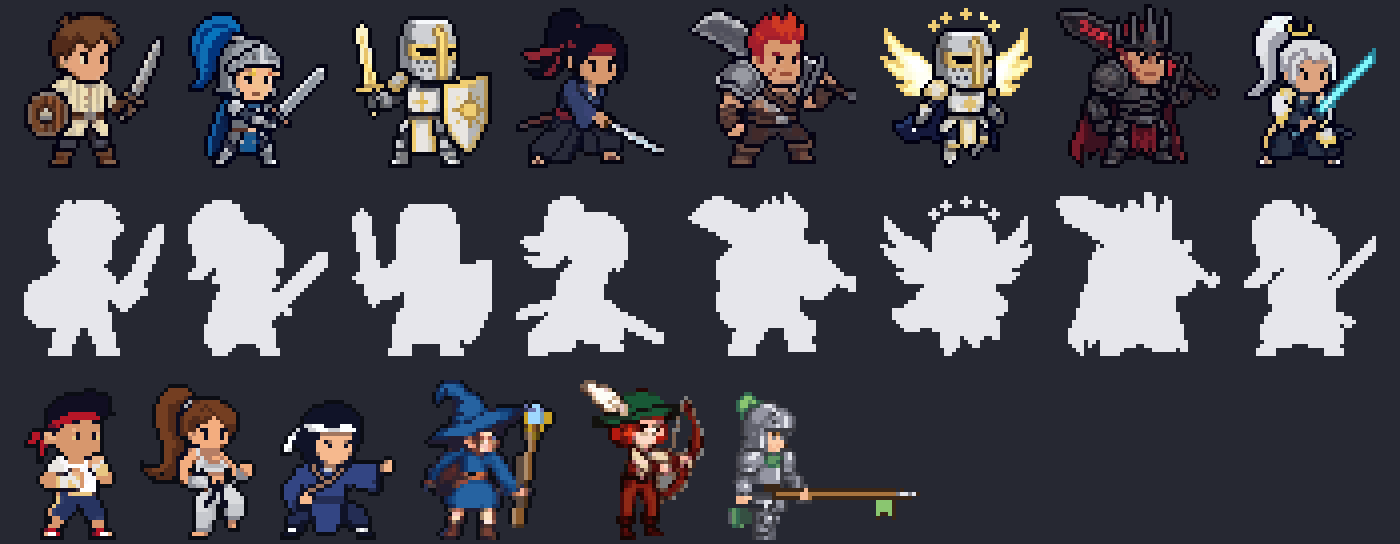
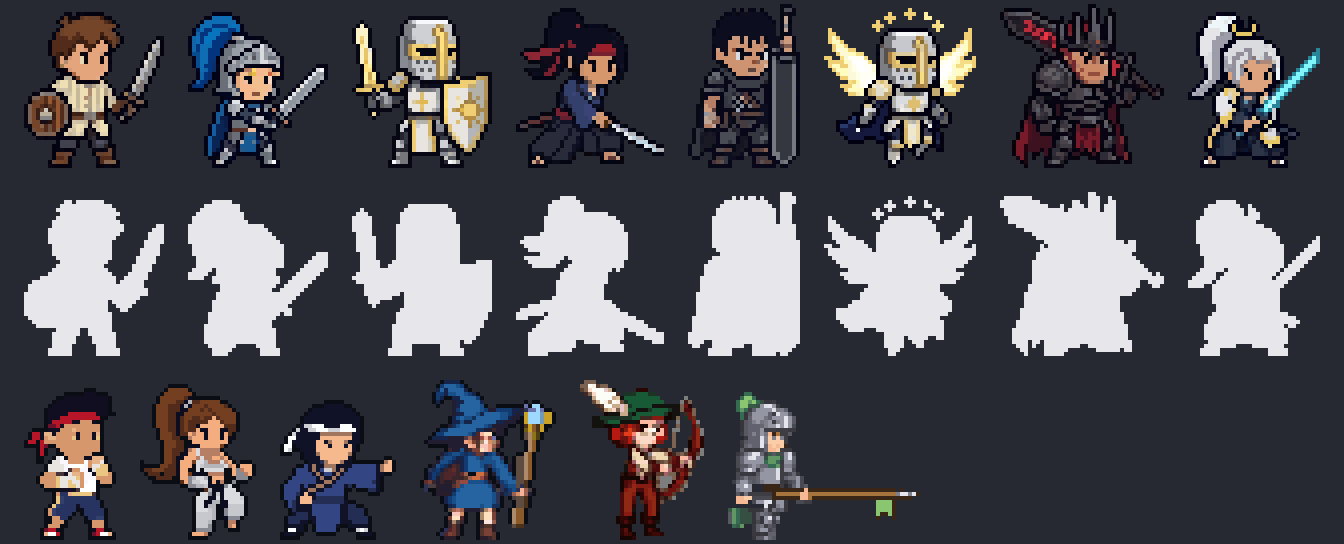
검사 계열 12단계 A: 대검전사 가츠 느낌으로 다시 (사용자 확인, PixelLab 15, 누적 315/440)

diff --git a/dev/review/sheets-sword.html b/dev/review/sheets-sword.html
@@ -83,7 +83,8 @@
 <li><b>사용자 지시</b>: "그냥 아예 기존꺼 다 무시하고 새로그려 / 검사류 싹다". 원래 조립식·앞서 만든 시트 모두 버림.</li>
 <li><b>방법</b>: 파이터 7:3 v2 방식 — <code>generate-with-style-v2</code>, 스타일 참고 = 파이터 계열 현재 시트 대기 그림 4장(42칸). 3차는 부모 2차의 고른 그림을 참고 1장으로(성기사→성좌기사, 대검전사→파천검왕, 검성→검신). 직업당 1회(15), 서로 다른 변형 25장.</li>
 <li><b>줄</b>: 1 = 새 8종(견습·검사·성기사·검성·대검전사·성좌기사·파천검왕·검신) · 2 = 실루엣(색깔놀이 확인) · 3 = 파이터·킥복서·기공사·마법사·레인저·창기사(0.78 줄인 시트). 키: 새 38~41, 다른 계열 35~40.</li>
-<li><b>다음(B, 확인 뒤)</b>: 칼은 모델이 같이 그린 프레임만 — 평타는 변형 25장의 휘두르기 자세 + pixen 키, 시전 pixen 2, 걷기 skeleton 8f. 약 64.</li>
+<li><b>사용자 확인</b>: "ㅇㅇ 좋아 대검전사만 이전느낌으로 가츠느낌나게" → 대검전사 1회 더(15, 18번 채택, 라인업 갱신). <details><summary class="dim">대검전사 가츠 판 25장</summary><img src="sheets-sword/design/new-sheet-greatswordsman_g.png" style="max-width:100%;image-rendering:pixelated" alt=""></details></li>
+<li><b>다음(B)</b>: 칼은 모델이 같이 그린 프레임만 — 평타는 변형 25장의 휘두르기 자세 + pixen 키, 시전 pixen 2, 걷기 skeleton 8f. 약 64.</li>
 </ul><img src="sheets-sword/design/new-lineup.png" style="max-width:100%;image-rendering:pixelated" alt=""><details><summary class="dim">견습 변형 25장 (고른 것 15번)</summary><img src="sheets-sword/design/new-sheet-squire.png" style="max-width:100%;image-rendering:pixelated" alt=""></details><details><summary class="dim">검사 변형 25장 (고른 것 7번)</summary><img src="sheets-sword/design/new-sheet-swordsman.png" style="max-width:100%;image-rendering:pixelated" alt=""></details><details><summary class="dim">성기사 변형 25장 (고른 것 1번)</summary><img src="sheets-sword/design/new-sheet-paladin.png" style="max-width:100%;image-rendering:pixelated" alt=""></details><details><summary class="dim">검성 변형 25장 (고른 것 3번)</summary><img src="sheets-sword/design/new-sheet-blademaster.png" style="max-width:100%;image-rendering:pixelated" alt=""></details><details><summary class="dim">대검전사 변형 25장 (고른 것 0번)</summary><img src="sheets-sword/design/new-sheet-greatswordsman.png" style="max-width:100%;image-rendering:pixelated" alt=""></details><details><summary class="dim">성좌기사 변형 25장 (고른 것 3번)</summary><img src="sheets-sword/design/new-sheet-archon.png" style="max-width:100%;image-rendering:pixelated" alt=""></details><details><summary class="dim">파천검왕 변형 25장 (고른 것 20번)</summary><img src="sheets-sword/design/new-sheet-tyrant.png" style="max-width:100%;image-rendering:pixelated" alt=""></details><details><summary class="dim">검신 변형 25장 (고른 것 4번)</summary><img src="sheets-sword/design/new-sheet-swordsaint.png" style="max-width:100%;image-rendering:pixelated" alt=""></details></div>
 <h2>◆ 10단계 — 파천검왕·검신 걷기, 다리 밝힌 원본 (2026-10-18, PixelLab 6, 계열 누적 180/180)</h2>
 <div class="card"><ul>

diff --git a/dev/sheets-sword/new_gen.py b/dev/sheets-sword/new_gen.py
@@ -25,6 +25,10 @@ DESC = {
                    'a slim curved katana held low and forward in a drawing stance, scabbard at the hip',
     'greatswordsman': 'a bulky greatsword warrior, short spiky red hair and a scarred face, heavy iron pauldrons with a brown fur mantle, leather armor, '
                       'a huge broad iron greatsword as long as his body resting on the shoulder with both hands, heavy boots',
+    # 사용자 2026-10-18 "대검전사만 이전느낌으로 가츠 느낌나게": 이전 판(판금·망토·판 모양 대검)의 무게감 + 흑기사 검사
+    'greatswordsman_g': 'a grim black swordsman, short spiky black hair, a scar across the nose, dark iron plate armor worn and battered, a long tattered black cape, '
+                        'a dark iron prosthetic left arm, an enormous blunt slab of iron as a greatsword, far too big to be a sword, taller than him, '
+                        'held on the shoulder with one hand, heavy iron boots',
     'archon': 'the same holy paladin as the reference but now a celestial archon: white and gold plate with star engravings, great helm with a ring of small gold stars above, '
               'small glowing wings of light on the back, a long deep blue cape with constellation dots, a radiant golden longsword held upright, star kite shield, more ornate',
     'tyrant': 'the same greatsword warrior as the reference but now a tyrant king: black iron armor with spiked pauldrons, a jagged dark crown on spiky red hair, '
@@ -54,6 +58,7 @@ def b64(im):
 
 def body(cls, seed=1):
     names = REFS[:3] + [PARENT[cls]] if cls in PARENT else REFS
+    cls0 = cls
     refs = [{'image': {'type': 'base64', 'base64': b64(ref(n))}, 'width': S, 'height': S} for n in names]
     b = {'style_images': refs, 'description': DESC[cls], 'style_description': STYLE, 'seed': seed, 'no_background': True}
     json.dump(b, open(os.path.join(NEW, f'{cls}-req.json'), 'w')); print(cls, 'refs', names, 'desc', len(DESC[cls]))

diff --git a/docs/specs/legacy-class-sheets.md b/docs/specs/legacy-class-sheets.md
@@ -281,6 +281,7 @@
 - 2026-10-18: 10단계 (로드맵 승인 6, 누적 180/180 — 상한 다 씀): 파천검왕·검신 다리 구역만 앞다리 밝은 3톤·뒷다리 어두운 3톤으로 다시 칠한 원본(`LIT=1 skel_walk.py`, 망토 붉은 칸 유지)으로 skeleton 1회씩. 파천검왕 3.57/3.57 합격(경계선, 보폭 작음) → 시트 walk 교체(`walkL4`, [2,4,6,0]). 검신 3.29/3.14 미달(보라 하카마 두 다리가 붙어 보임) → 임시 걷기 유지.
 - 2026-10-18: 11단계 계획 (사용자: "검사류는 전부 다시 — 무기랑 동작이 자연스럽게 이어지지 않고, 모습도 전이 더 이쁘다", 로드맵이 SHEET_ON 8종 false 로 되돌림, 상한 260): 기준 그림 = 원래 조립식 대기 자세. `drawHeroRaw` 를 PX 3 으로 찍어 3칸 최빈색으로 줄인 32칸 원본(키 17도트, `dev/sheets-sword/orig/<cls>-x3.png` → `orig/<cls>.png` 는 2배·발 (28,59)). 새 프레임은 32칸 원본 위에서 생성해 2배로 넣는다(게임 크기 = 지금 조립식과 같음, 키 ~35). 칼 덧그리기 없음 — 모델이 칼까지 그린 프레임만. 성기사 평타로 (a) pixen 키 자세 (b) skeleton-v3 를 먼저 비교(최대 8)해 고른다.
 - 2026-10-18: 11단계 취소 → 12단계 (사용자 직접: "그냥 아예 기존꺼 다 무시하고 새로그려 / 검사류 싹다", 로드맵 승인 상한 440): A 디자인 — `new_gen.py` 파이터 7:3 v2 방식(generate-with-style-v2, 참고 = 파이터 계열 현재 시트 대기 4장 42칸, 3차는 부모 2차 고른 그림). 8회 × 15 = 120, 누적 300/440. 고른 것 `new/pick-<cls>.png`: 견습 15·검사 7·성기사 1·검성 3·대검전사 0·성좌기사 3·파천검왕 20·검신 4. 라인업 `new/_lineup.png`(키 38~41, 실루엣 8종 구분). 사용자 확인 뒤 B(동작 약 64).
+- 2026-10-18: 12단계 A 사용자 확인 ("ㅇㅇ 좋아 대검전사만 이전느낌으로 가츠느낌나게"): 대검전사만 `greatswordsman_g` 설명(검은 뻗친 머리·흉터·검은 철갑·찢어진 검은 망토·쇠 의수·몸보다 큰 쇳덩이 대검)으로 1회(15) → 18번 채택. 누적 315/440. 나머지 7종 확정 → B(동작) 시작. 파천검왕은 옛 대검전사 그림을 부모로 뽑았지만 왕관·붉은 망토·룬 대검이라 그대로 둔다.
 
 ## 남은 일 / 미정
 - 창기사 계열 7종 모두 켜짐 (상태: 완료, 사용자 승인 2026-10-17). 남은 흠(선택): 창기사·용기병 평타A 예비동작(창 뒤로 당김) 약함, 랜서 평타B 앞 두 장 몸이 돌아섬, 할버디어 평타A 4장(휩쓸기 중간 3장 뺌), 천마장군 평타B 5장(잔재 2장 뺌), 전쟁군주 평타A 6장. 다시 손댈 때는 **빈손 설명으로 생성 + 코드 무기**(할버디어 교훈)로 해당 동작만 15f 다시 뽑는다. 랜서 방패는 정지 그림에서 잘라 합성(`anim_post.py SHIELD`) — 방패 위치가 몸 위에 겹치는 프레임이 있다.

diff --git a/dev/sheets-sword/usage.md b/dev/sheets-sword/usage.md
@@ -166,3 +166,4 @@
 | 159 | archon | `/generate-with-style-v2` | new: /generate-with-style-v2 | 15.0 / 15.0 | 397.0 / 270.0 | 545.0 |
 | 160 | tyrant | `/generate-with-style-v2` | new: /generate-with-style-v2 | 15.0 / 15.0 | 412.0 / 285.0 | 530.0 |
 | 161 | swordsaint | `/generate-with-style-v2` | new: /generate-with-style-v2 | 15.0 / 15.0 | 427.0 / 300.0 | 515.0 |
+| 162 | greatswordsman_g | `/generate-with-style-v2` | new: /generate-with-style-v2 | 0.0 / 15.0 | 427.0 / 315.0 | 515.0 |
